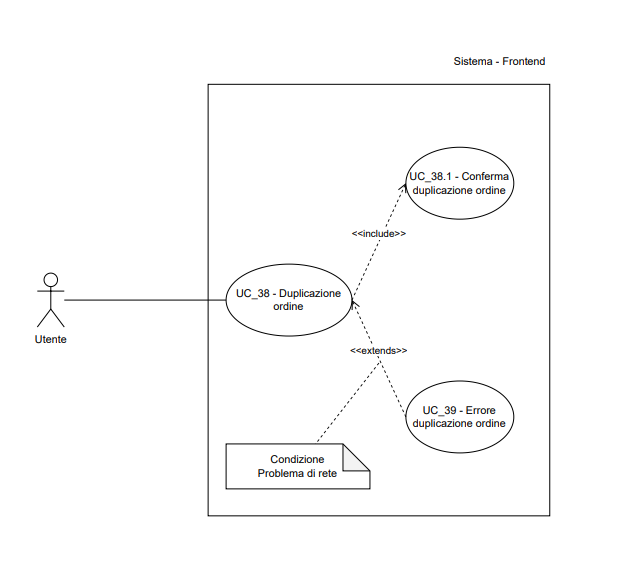
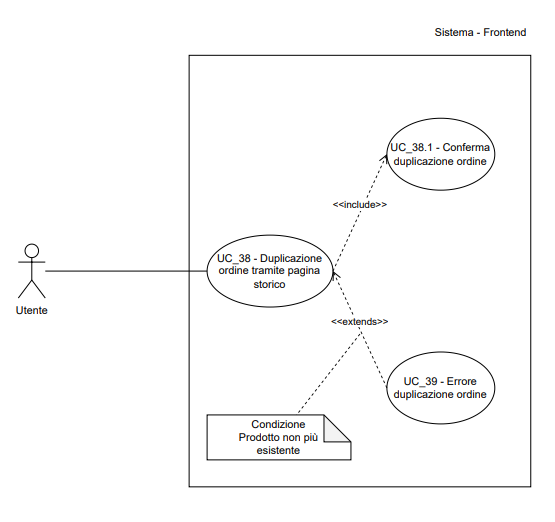
Leggera modifica UC_38

Changed region(s): [[0.0306, 0.0307, 0.9495, 0.9502], [0.9495, 0.1226, 0.9802, 0.9195]]

diff --git a/src/RTB/Documenti Esterni/Analisi dei Requisiti/content/uc/UC_38.tex b/src/RTB/Documenti Esterni/Analisi dei Requisiti/content/uc/UC_38.tex
@@ -1,4 +1,4 @@
-\subsubsection{UC\_38: Duplica ordine}
+\subsubsection{UC\_38: Duplicazione ordine tramite pagina storico}
 \label{uc_38}
 
 \begin{figure}[H]
